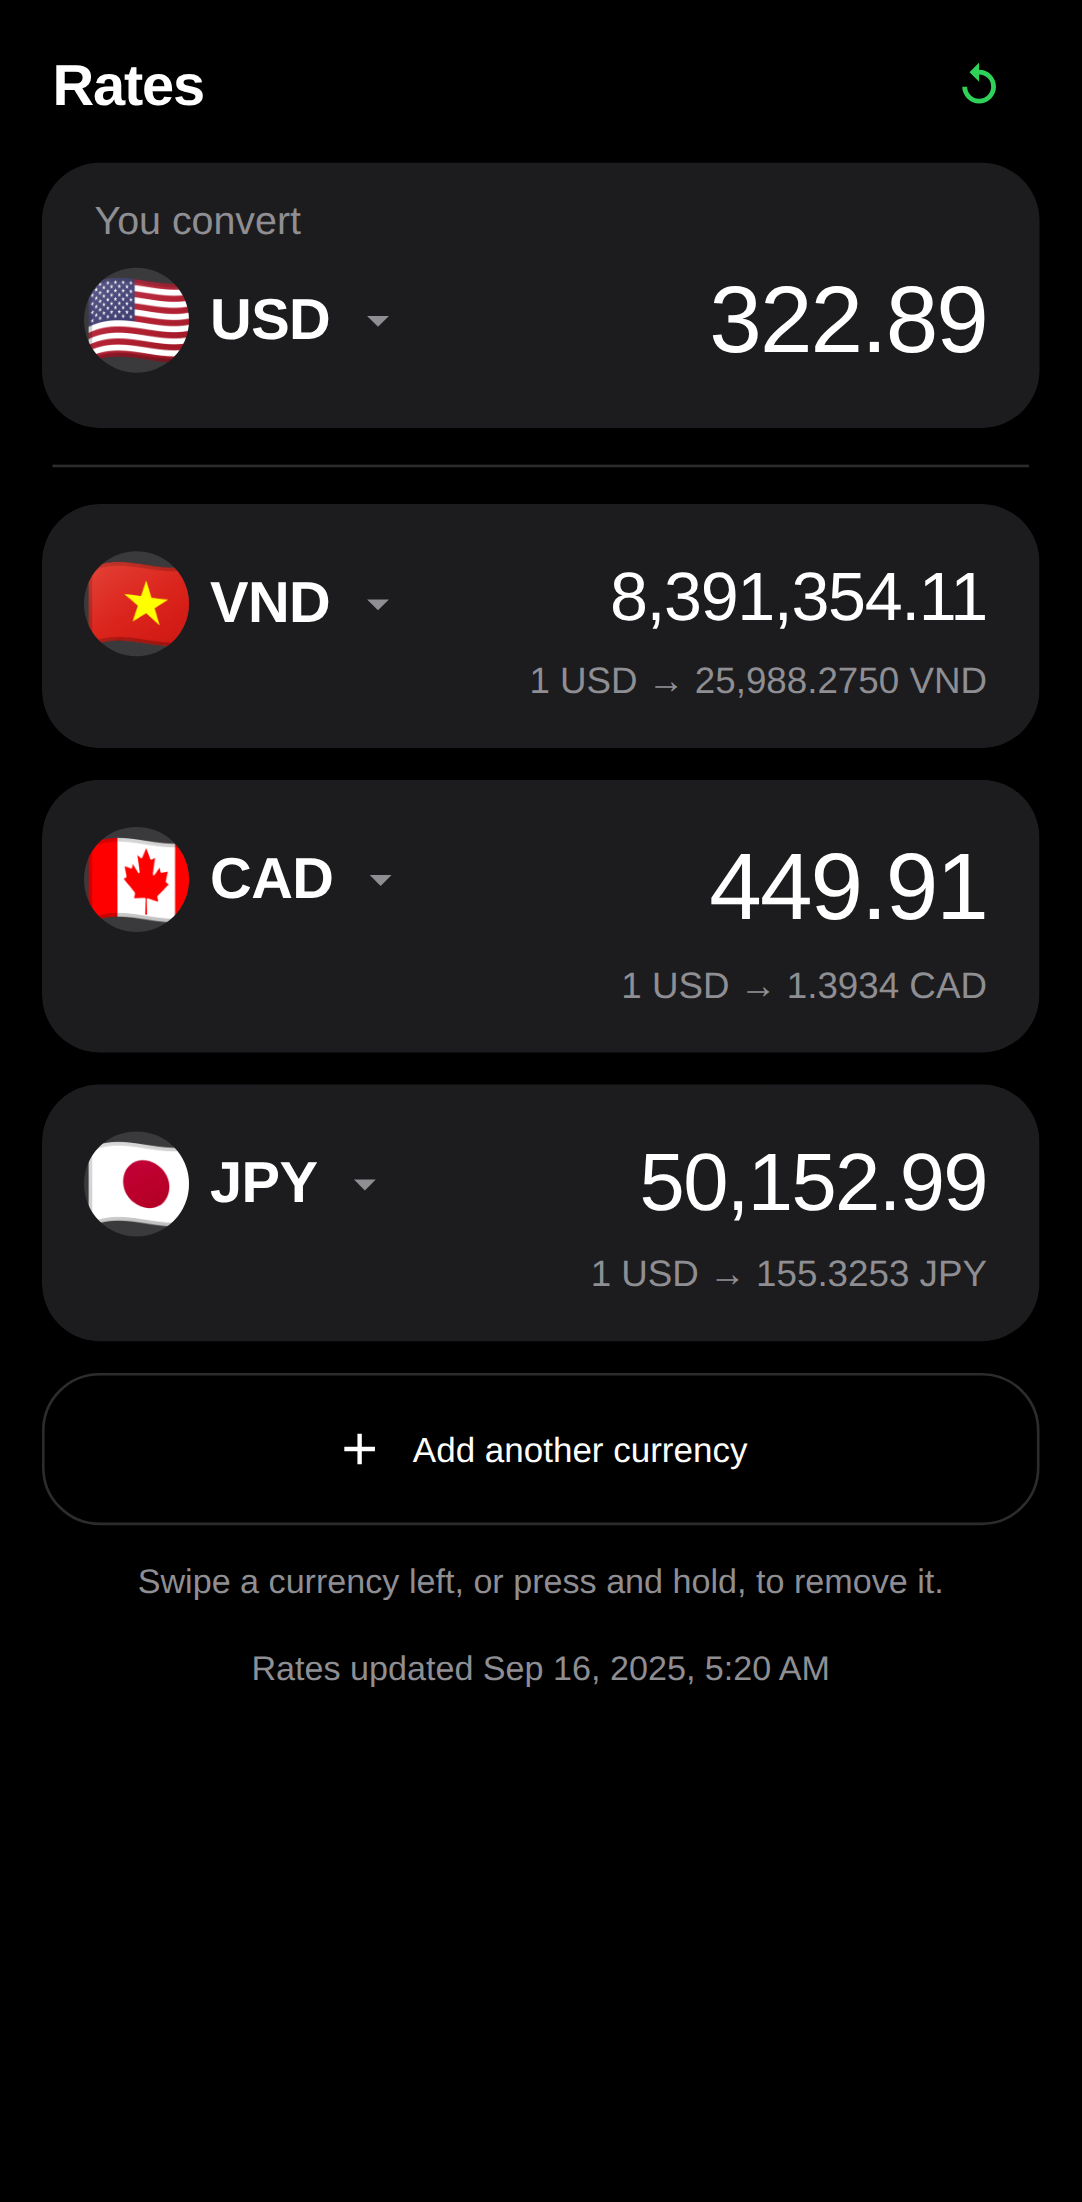
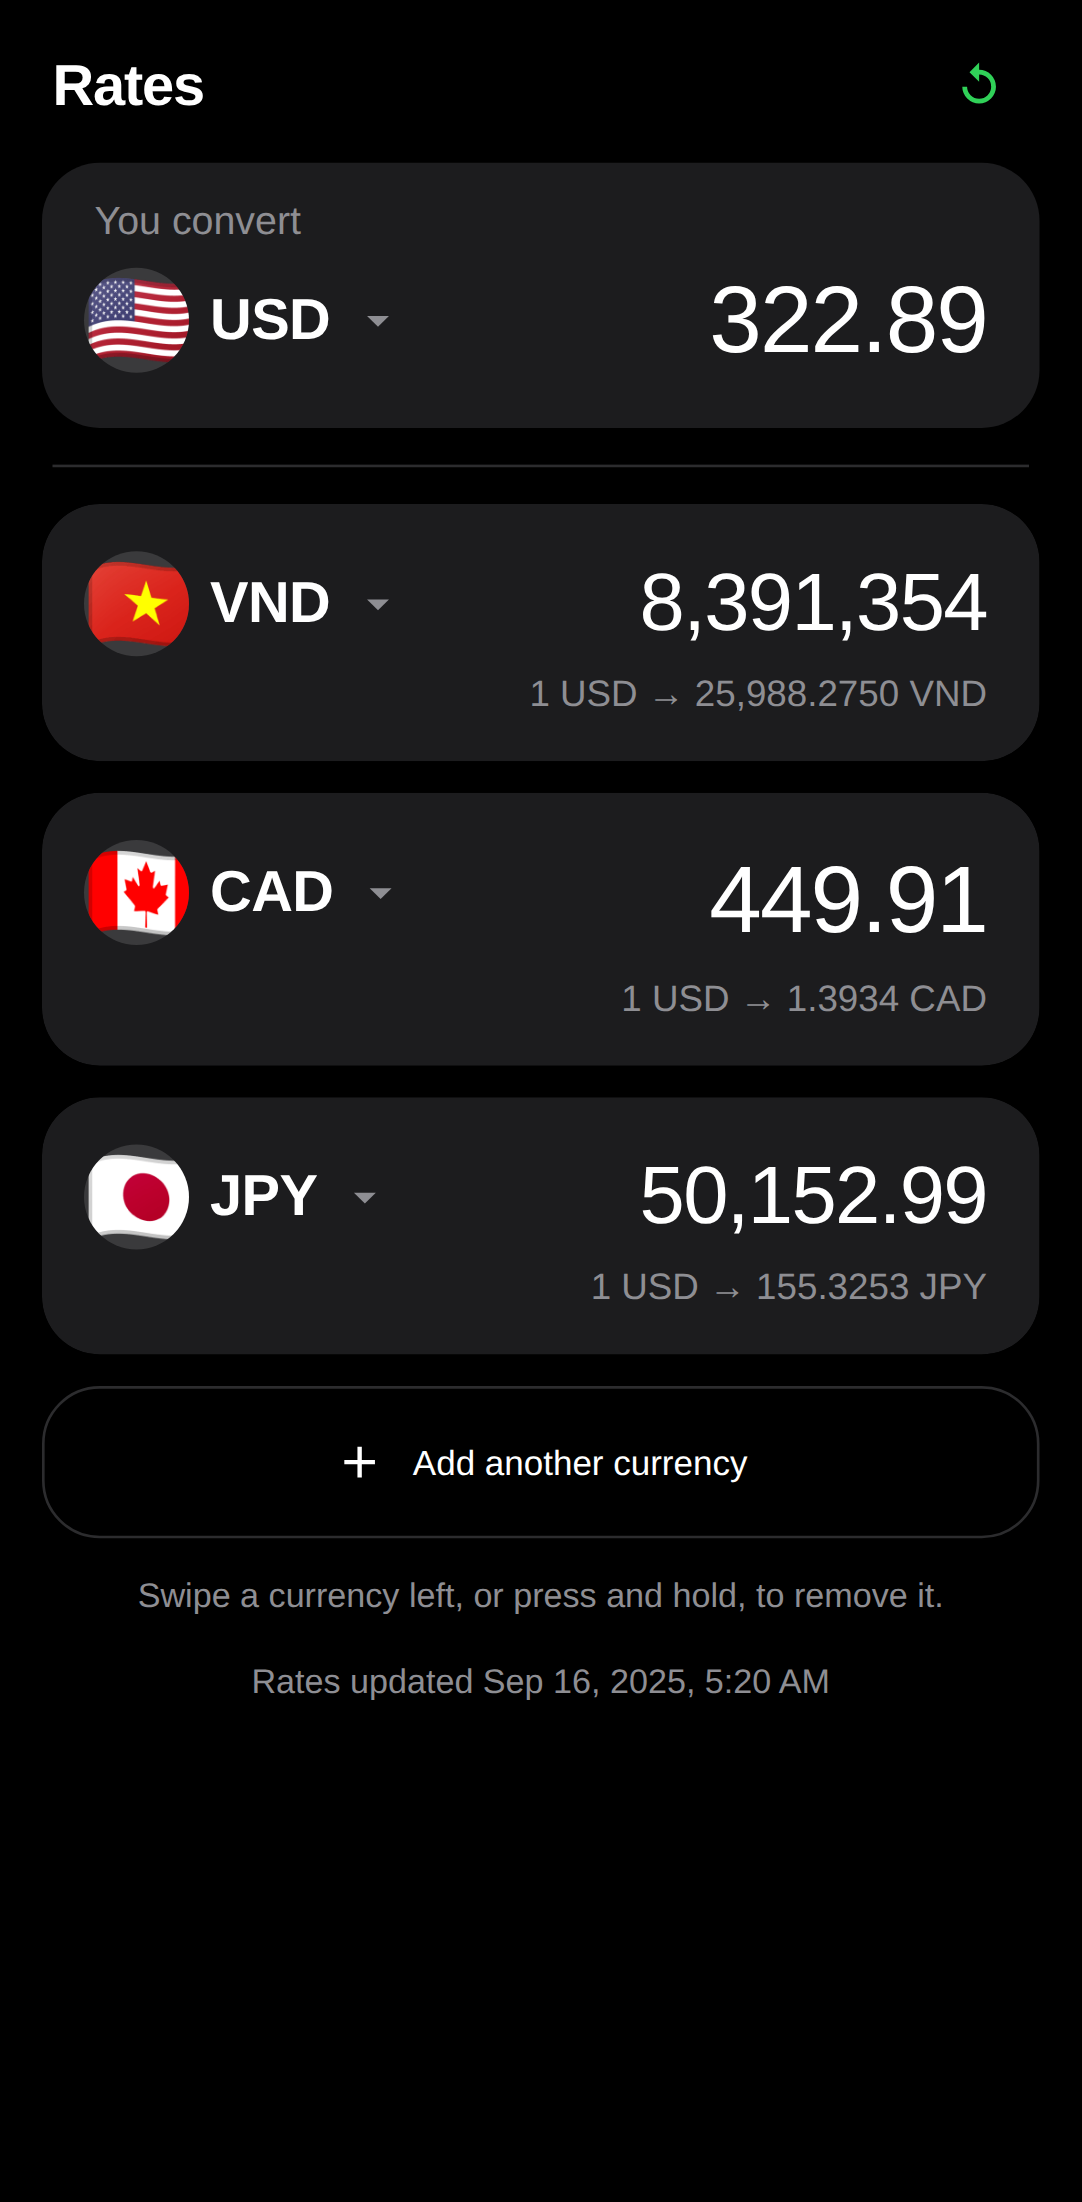
Drop the cents where they are noise
VND has no subunit in everyday use, so it prints whole. Any amount of 100,000
or more prints whole too, whatever the currency — two decimals next to seven
figures are just clutter.

Everything else keeps its cents, so 449.91 CAD and 50,152.99 JPY are unchanged.
The numpad seeds the same way, so opening VND offers 8,391,354 rather than
8,391,354.11.

Verified in headless Chromium: 54 checks pass, up from 50. New ones cover VND
printing whole, a currency under 100k keeping its cents, an amount over 100k
dropping them, and 99,999.99 keeping them.

Claude-Session: https://claude.ai/code/session_01SxJZiNMqDx6pCw1Jj2pNHV

diff --git a/app.js b/app.js
@@ -137,11 +137,25 @@ async function fetchRates({ force = false } = {}) {
 }
 
 /* ---------- formatting ---------- */
-const amountFmt = new Intl.NumberFormat(undefined, { minimumFractionDigits: 2, maximumFractionDigits: 2 });
+/* Currencies with no subunit in everyday use — cents make no sense for them. */
+const ZERO_DECIMAL = new Set(['VND']);
 
-function formatAmount(value) {
+/* Above this, the cents are noise next to the size of the number. */
+const WHOLE_ABOVE = 100000;
+
+function decimalsFor(code, value) {
+  if (ZERO_DECIMAL.has(code)) return 0;
+  if (Math.abs(value) >= WHOLE_ABOVE) return 0;
+  return 2;
+}
+
+function formatAmount(value, code) {
   if (!Number.isFinite(value)) return '—';
-  return amountFmt.format(value);
+  const decimals = decimalsFor(code, value);
+  return new Intl.NumberFormat(undefined, {
+    minimumFractionDigits: decimals,
+    maximumFractionDigits: decimals
+  }).format(value);
 }
 
 function formatRate(rate) {
@@ -173,9 +187,9 @@ function parseAmount(text) {
 
 /* Seed the pad with what the row actually shows, not full precision:
    449.91 rather than 449.914926, and 25000 rather than 25000.00. */
-function padSeed(value) {
+function padSeed(value, code) {
   if (!Number.isFinite(value)) return '';
-  const fixed = value.toFixed(2);
+  const fixed = value.toFixed(decimalsFor(code, value));
   return fixed.endsWith('.00') ? fixed.slice(0, -3) : fixed;
 }
 
@@ -234,7 +248,7 @@ function render() {
   el.baseFlag.id = 'baseFlag';
   el.baseCode.textContent = state.base;
   el.baseChip.setAttribute('aria-label', `Base currency: ${baseInfo.name}. Tap to change.`);
-  el.baseAmount.textContent = formatAmount(state.amount);
+  el.baseAmount.textContent = formatAmount(state.amount, state.base);
 
   el.list.innerHTML = '';
   state.list.forEach((code, index) => el.list.appendChild(renderRow(code, index)));
@@ -267,7 +281,7 @@ function renderRow(code, index) {
         </button>
         <div class="amount-wrap">
           <button class="amount-value" data-code="${code}"
-                  aria-label="Amount in ${info.name}, tap to edit">${rate === null ? '—' : formatAmount(state.amount * rate)}</button>
+                  aria-label="Amount in ${info.name}, tap to edit">${rate === null ? '—' : formatAmount(state.amount * rate, code)}</button>
           <div class="rate-note">${rate === null ? 'rate unavailable' : `1 ${state.base} → ${formatRate(rate)} ${code}`}</div>
         </div>
       </div>
@@ -302,7 +316,7 @@ function openPad(code) {
   const rate = code === state.base ? 1 : rateFor(code);
   if (rate === null) return;             // nothing sensible to type against
   padCode = code;
-  padText = padSeed(state.amount * rate);
+  padText = padSeed(state.amount * rate, code);
   padReplace = true;
   const info = currencyInfo(code);
   el.padFlag.innerHTML = flagHTML(code);

diff --git a/README.md b/README.md
@@ -15,6 +15,8 @@ no API key, no dependencies.
 - **Tap any amount** — the top one or any row — to open a built-in numpad. Every other
   amount recalculates from what you enter.
 - Your base currency, amount and list are saved on the device, so the app opens exactly where you left it.
+- **Whole numbers where cents are noise**: VND never shows them, and neither does
+  any amount of 100,000 or more.
 - **Offline**: the last rates are cached. The footer tells you the date they came from.
 - **Installable**: Chrome/Edge show an Install button; on iOS use Share → Add to Home Screen.
 
